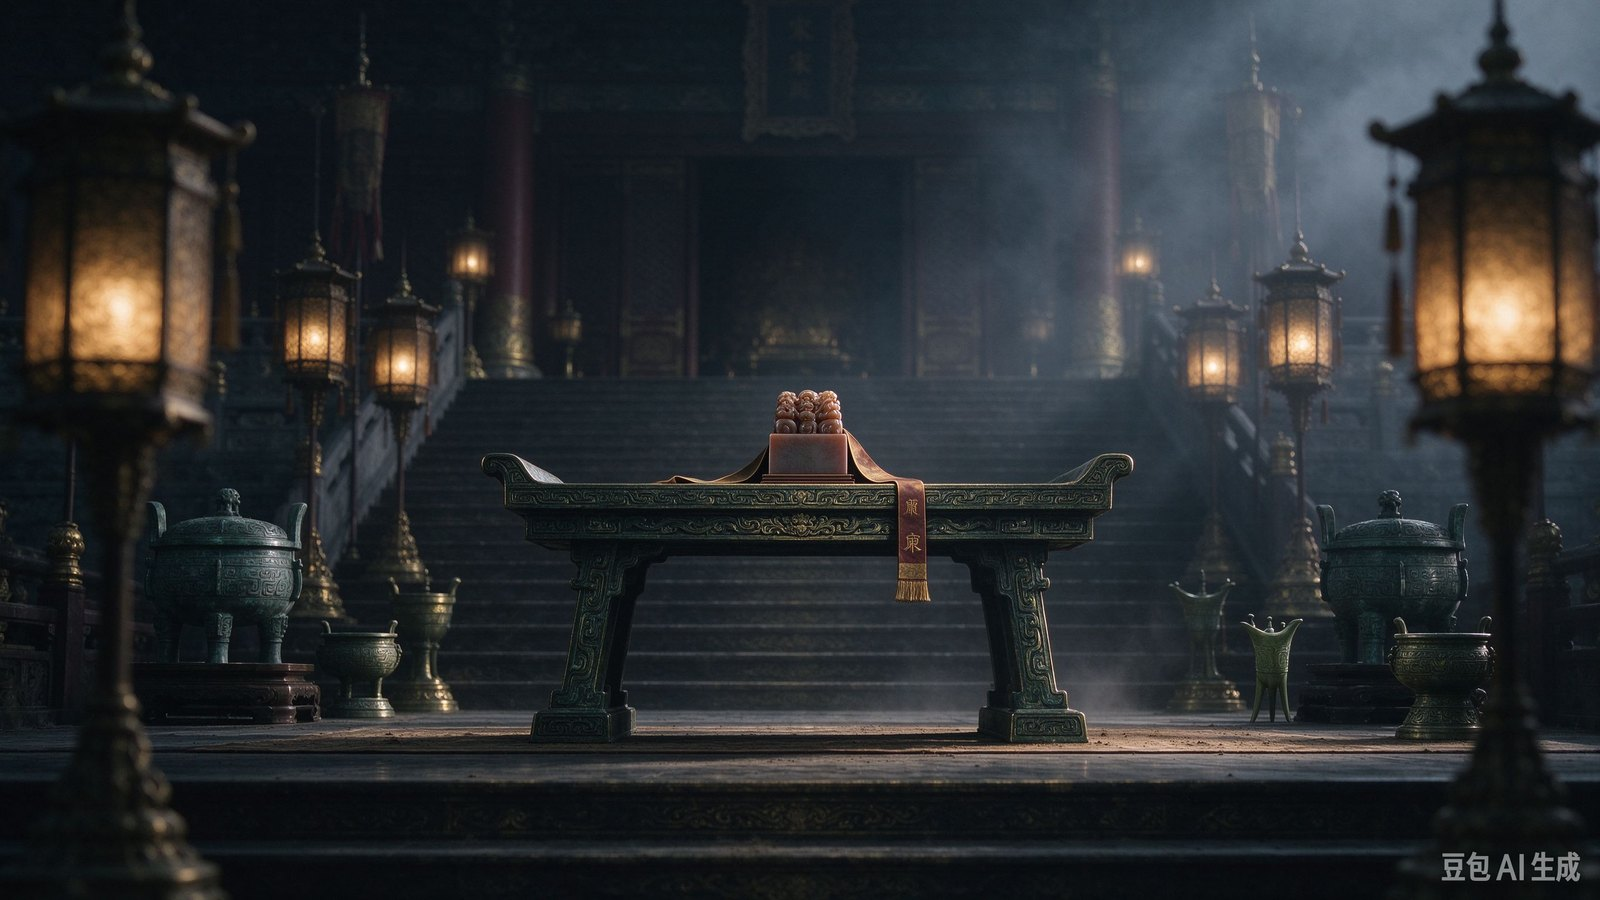
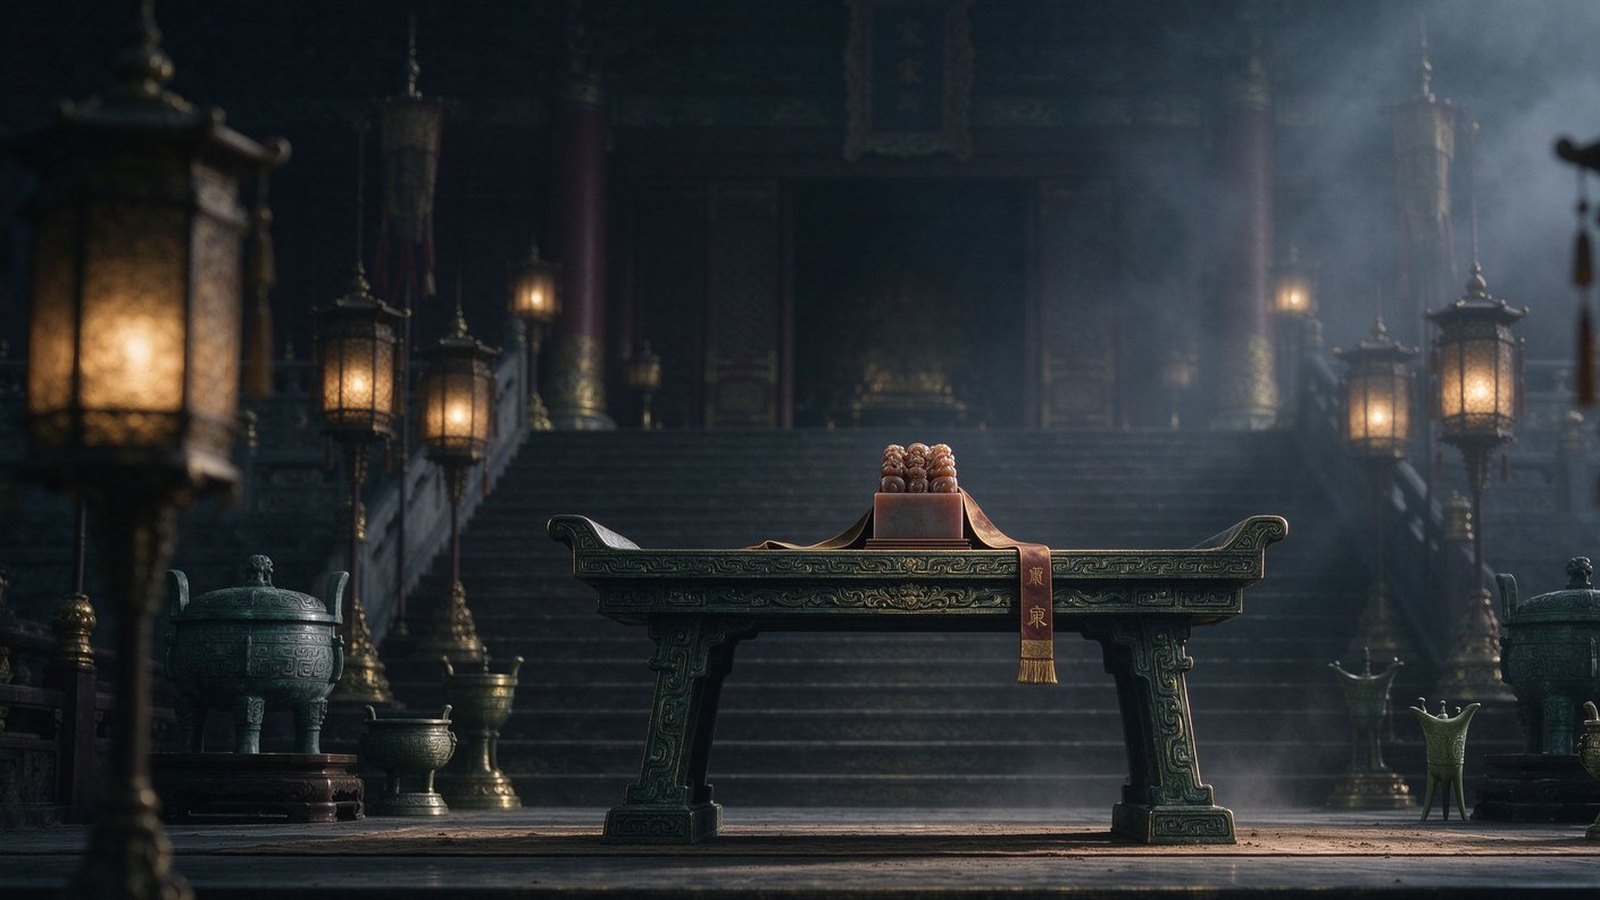
南北朝过渡页补齐 8 章 24 幕器物配图，并裁去豆包角标

diff --git a/src/features/fall/FallStage.tsx b/src/features/fall/FallStage.tsx
@@ -63,6 +63,18 @@ import nb502_3 from '../../assets/nb502_3.jpg'
 import nb534_1 from '../../assets/nb534_1.jpg'
 import nb534_2 from '../../assets/nb534_2.jpg'
 import nb534_3 from '../../assets/nb534_3.jpg'
+import nb577_1 from '../../assets/nb577_1.jpg'
+import nb577_2 from '../../assets/nb577_2.jpg'
+import nb577_3 from '../../assets/nb577_3.jpg'
+import nb589_1 from '../../assets/nb589_1.jpg'
+import nb589_2 from '../../assets/nb589_2.jpg'
+import nb589_3 from '../../assets/nb589_3.jpg'
+import nb550_1 from '../../assets/nb550_1.jpg'
+import nb550_2 from '../../assets/nb550_2.jpg'
+import nb550_3 from '../../assets/nb550_3.jpg'
+import nb557_1 from '../../assets/nb557_1.jpg'
+import nb557_2 from '../../assets/nb557_2.jpg'
+import nb557_3 from '../../assets/nb557_3.jpg'
 import './fall.css'
 
 /** 每一幕的影像代号 —— 数据里指定，组件只负责映射到文件 */
@@ -103,6 +115,18 @@ const ART: Record<string, string> = {
   nb534_1,
   nb534_2,
   nb534_3,
+  nb577_1,
+  nb577_2,
+  nb577_3,
+  nb589_1,
+  nb589_2,
+  nb589_3,
+  nb550_1,
+  nb550_2,
+  nb550_3,
+  nb557_1,
+  nb557_2,
+  nb557_3,
 }
 
 const ART_ALT: Record<string, string> = {

diff --git a/scripts/crop-nanbei-watermark.py b/scripts/crop-nanbei-watermark.py
@@ -1,0 +1,11 @@
+from PIL import Image
+import glob, os
+files = sorted(glob.glob('src/assets/nb*.jpg'))
+for f in files:
+    im = Image.open(f).convert('RGB')
+    w, h = im.size
+    # 豆包角标在右下角：从左上裁掉 12%，保持 16:9，再压回 1600x900
+    cw, ch = int(w * 0.88), int(h * 0.88)
+    im = im.crop((0, 0, cw, ch)).resize((1600, 900), Image.LANCZOS)
+    im.save(f, 'JPEG', quality=86, optimize=True)
+print('cropped', len(files))
